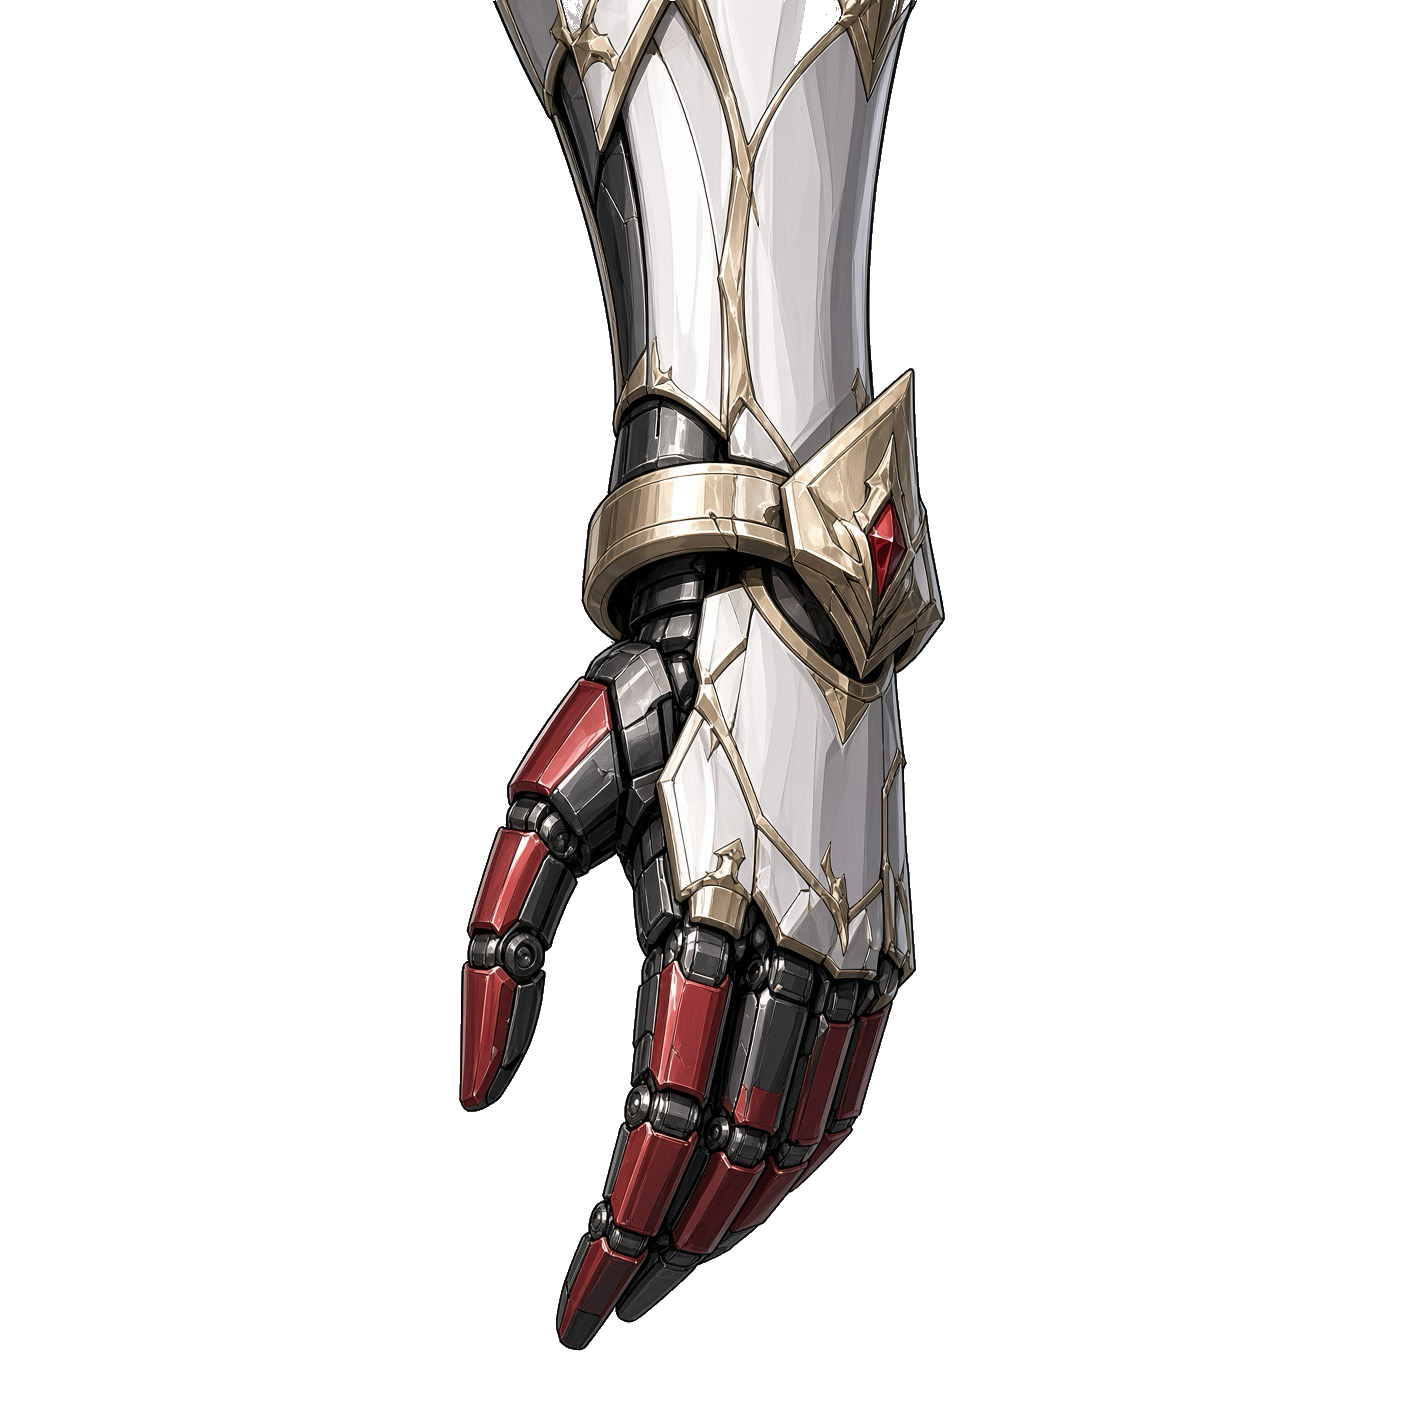
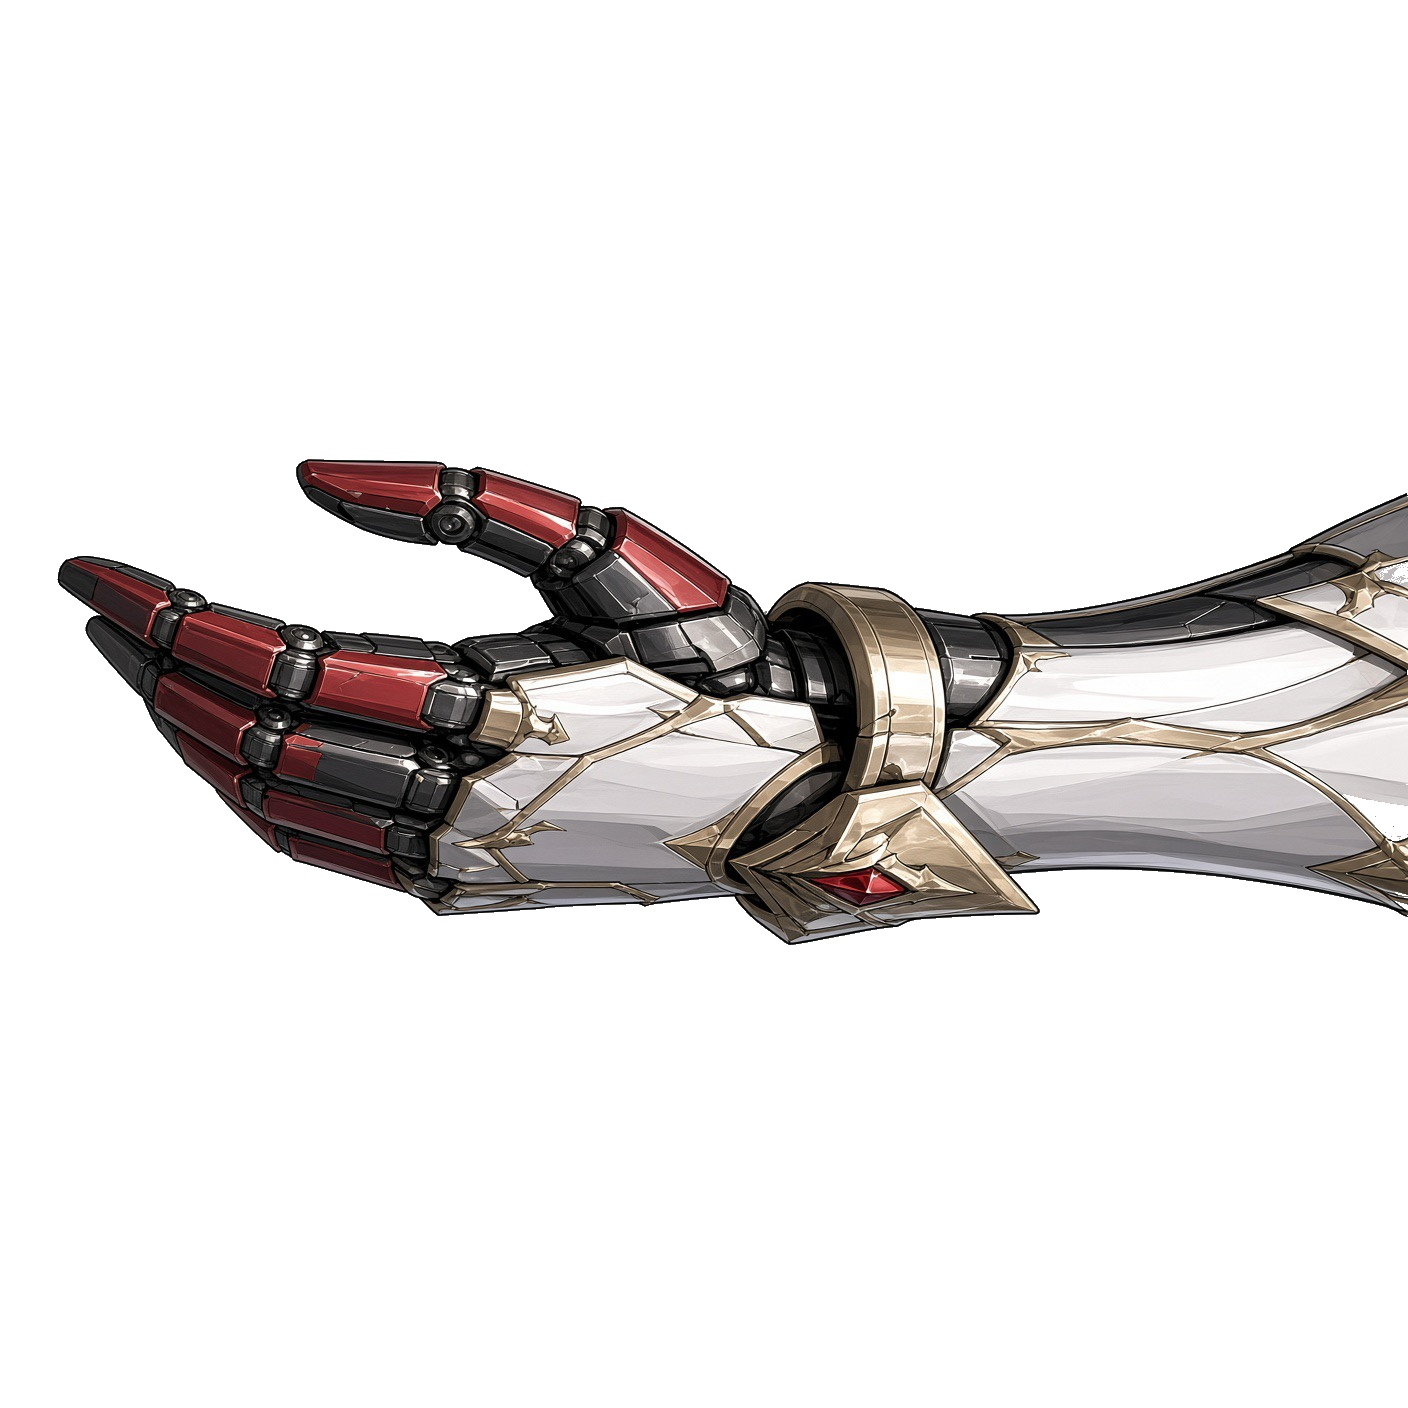
L8 polish: normal ball, no bombs, hand stump to edges, rooftop bg, debris
Restore normal ball radius on Queen boss (ignore hand brickPx). Disable
enemy bombs for queenBoss. Orient hand assets so forearm stump faces
outer edges and fingers toward the playfield; tighten side anchors.
Replace bg with rooftop sunset and plant Queen feet on groundFrac.
Add moderate falling rubble with ball bounce (L8 only). Cache-bust v=35.

diff --git a/game.js b/game.js
@@ -19,7 +19,7 @@
     { id: 5, name: 'Nivel 5', mech: 'mech-level5.png', bg: 'bg-level5.jpg', paddleScale: 0.921, groundFrac: 0.90, dodge: true, fly: true, mechScale: 0.92, irregularBricks: true, ballSpeed: 1.02 },
     { id: 6, name: 'Nivel 6', mech: 'mech-level6.png', bg: 'bg-level6.jpg', bgB: 'bg-level6b.jpg', bgC: 'bg-level6c.jpg', waves: 3, paddleScale: 0.8846, groundFrac: 0.88, dodge: true, jump: true, mechScale: 0.45, irregularBricks: true, ballSpeed: 1.0404, brickDamageMult: 1.2 },
     { id: 7, name: 'Nivel 7', mech: 'mech-level7-upper.png', mechLower: 'mech-level7-lower.png', bg: 'bg-level7.jpg', dualLayer: true, irregularBricks: true, mechScale: 1.24, paddleScale: 0.86, groundFrac: 0.88, dodge: true, ballSpeed: 1.05, brickDamageMult: 1.25 },
-    { id: 8, name: 'Nivel 8', mech: 'mech-level8-hand-l.png', queen: 'mech-level8-queen.png', handL: 'mech-level8-hand-l.png', handR: 'mech-level8-hand-r.png', bg: 'bg-level8.jpg', queenBoss: true, irregularBricks: true, mechScale: 0.58, paddleScale: 0.8428, groundFrac: 0.90, dodge: true, ballSpeed: 1.071, brickDamageMult: 1.3 },
+    { id: 8, name: 'Nivel 8', mech: 'mech-level8-hand-l.png', queen: 'mech-level8-queen.png', handL: 'mech-level8-hand-l.png', handR: 'mech-level8-hand-r.png', bg: 'bg-level8.jpg', queenBoss: true, irregularBricks: true, mechScale: 0.58, paddleScale: 0.8428, groundFrac: 0.82, dodge: true, ballSpeed: 1.071, brickDamageMult: 1.3 },
   ];
   let levelIndex = 0;
   function level() { return LEVELS[levelIndex]; }
@@ -165,6 +165,8 @@
   let l8HandSpawnAt = 0; // performance.now() when left hand spawned; right at +5s
   let l8Phase = 'idle'; // idle | intro | hands
   let l8SpawnBusy = false;
+  let l8Debris = [];
+  let l8DebrisTimer = 0;
 
   function size() {
     return {
@@ -1982,32 +1984,37 @@
     l8HandSpawnAt = 0;
     l8Phase = 'idle';
     l8SpawnBusy = false;
+    l8Debris = [];
+    l8DebrisTimer = 0.6 + Math.random() * 0.8;
   }
 
   function l8EaseInOut(u) {
     return u < 0.5 ? 2 * u * u : 1 - Math.pow(-2 * u + 2, 2) / 2;
   }
 
-  /** Queen draw transform: scale so face+chest fills viewport when cam settled. */
+  /** Queen draw transform: scale so face+chest fills viewport when cam settled.
+   *  Feet stay planted on groundY (rooftop floor) at camY=0; pan rises to face. */
   function l8QueenDrawParams() {
     const img = l8QueenImg;
     if (!img || !img.naturalWidth) return null;
     const iw = img.naturalWidth, ih = img.naturalHeight;
     // Top ~38% of body ≈ face + chest; scale that band to viewport height
     const faceFrac = 0.38;
+    const footFrac = 0.984; // opaque heel/toe near bottom of queen art
     const scale = (H / (ih * faceFrac)) * 1.08;
     const dw = iw * scale;
     const dh = ih * scale;
     const dx = (W - dw) / 2;
-    // camY 0 → feet framed; camY 1 → face+chest framed
-    const dyFeet = H - dh + H * 0.08;
-    const dyFace = -dh * 0.015;
+    const gy = groundY > 0 ? groundY : H * (level().groundFrac != null ? level().groundFrac : 0.82);
+    // camY 0 → feet on rooftop ground plane; camY 1 → face+chest framed
+    const dyFeet = gy - footFrac * dh;
+    const dyFace = -dh * 0.02;
     const dy = dyFeet + (dyFace - dyFeet) * l8CamY;
-    // slight idle parallax after intro
+    // slight idle parallax after intro (keep feet feel planted — mostly X)
     let px = 0, py = 0;
     if (!l8Intro && l8Phase === 'hands') {
       px = Math.sin(bgT * 0.35) * 4;
-      py = Math.cos(bgT * 0.28) * 3;
+      py = Math.cos(bgT * 0.28) * 1.5;
     }
     return { dx: dx + px, dy: dy + py, dw, dh };
   }
@@ -2064,20 +2071,20 @@
       const fit = Math.min(availW / imgW, availH / imgH) * mechScale;
       const ox = (W - imgW * fit) / 2;
       const unusedH = availH - imgH * fit;
-      // Hands hang from upper third
-      const oy = pad + 4 + Math.max(0, unusedH * 0.12);
+      // Horizontal hands: band sits in upper third of playfield
+      const oy = pad + 4 + Math.max(0, unusedH * 0.10);
       fillBricksFromImage(fit, ox, oy);
 
       const mechW = imgW * fitScale;
       const mechH = imgH * fitScale;
-      // Anchor: forearm/wrist near side edge — ~38% of width off-screen
+      // Anchor: forearm stump toward outer edge — ~42% of width off-screen
       if (side === 'left') {
-        structureDX = -originX - mechW * 0.38;
+        structureDX = -originX - mechW * 0.42;
       } else {
-        structureDX = (W + mechW * 0.38) - originX - mechW;
+        structureDX = (W + mechW * 0.42) - originX - mechW;
       }
       // Start slightly higher then settle
-      structureDY = -Math.min(80, mechH * 0.08);
+      structureDY = -Math.min(60, mechH * 0.06);
       structureDVX = 0;
       structureDVY = 0;
       structureAngle = 0;
@@ -2223,6 +2230,125 @@
     applyStructureOffset();
   }
 
+  function spawnL8Debris() {
+    if (!level().queenBoss || won || gameOver) return;
+    if (l8Debris.length >= 10) return;
+    const w = 10 + Math.random() * 22;
+    const h = 8 + Math.random() * 18;
+    const x = Math.random() * (W - w);
+    const gray = 70 + (Math.random() * 70) | 0;
+    const brown = (Math.random() * 35) | 0;
+    l8Debris.push({
+      x,
+      y: -h - Math.random() * 40,
+      w,
+      h,
+      vx: (Math.random() - 0.5) * 0.7,
+      vy: 0.4 + Math.random() * 0.9,
+      rot: Math.random() * Math.PI * 2,
+      vr: (Math.random() - 0.5) * 0.08,
+      r: gray,
+      g: gray - 8 + brown,
+      b: gray - 18 + (brown * 0.5) | 0,
+      alive: true,
+    });
+  }
+
+  function updateL8Debris(dt) {
+    if (!level().queenBoss) return;
+    const step = dt * 60;
+    // Moderate spawn rate — not overwhelming
+    if (!l8Intro && l8Phase === 'hands' && launched && !outro) {
+      l8DebrisTimer -= dt;
+      if (l8DebrisTimer <= 0) {
+        spawnL8Debris();
+        if (Math.random() < 0.28) spawnL8Debris();
+        l8DebrisTimer = 0.85 + Math.random() * 1.35;
+      }
+    } else if (l8Intro) {
+      // Light ambient rubble during intro
+      l8DebrisTimer -= dt;
+      if (l8DebrisTimer <= 0 && l8Debris.length < 4) {
+        spawnL8Debris();
+        l8DebrisTimer = 1.4 + Math.random() * 1.6;
+      }
+    }
+    const floor = groundY > 0 ? groundY + 8 : H + 20;
+    for (let i = l8Debris.length - 1; i >= 0; i--) {
+      const d = l8Debris[i];
+      if (!d.alive) { l8Debris.splice(i, 1); continue; }
+      d.vy += 0.085 * step; // gravity
+      d.vx *= 0.999;
+      d.x += d.vx * step;
+      d.y += d.vy * step;
+      d.rot += d.vr * step;
+      if (d.y + d.h >= floor || d.y > H + 30 || d.x + d.w < -40 || d.x > W + 40) {
+        l8Debris.splice(i, 1);
+      }
+    }
+  }
+
+  function collideBallWithL8Debris() {
+    if (!level().queenBoss || !ball || !l8Debris.length) return;
+    for (const d of l8Debris) {
+      if (!d.alive) continue;
+      if (!collideCircleAABB(ball.x, ball.y, ball.r, d)) continue;
+      const flags = bounceFlagsForHit(ball.x, ball.y, ball.r, d);
+      // Separate ball out of AABB
+      const nx = Math.max(d.x, Math.min(ball.x, d.x + d.w));
+      const ny = Math.max(d.y, Math.min(ball.y, d.y + d.h));
+      let dx = ball.x - nx, dy = ball.y - ny;
+      const dist = Math.hypot(dx, dy) || 0.001;
+      const push = ball.r - dist + 0.5;
+      if (push > 0 && dist < ball.r) {
+        ball.x += (dx / dist) * push;
+        ball.y += (dy / dist) * push;
+      } else if (flags.bounceY) {
+        if (ball.vy > 0) ball.y = d.y - ball.r - 0.5;
+        else ball.y = d.y + d.h + ball.r + 0.5;
+      } else if (flags.bounceX) {
+        if (ball.vx > 0) ball.x = d.x - ball.r - 0.5;
+        else ball.x = d.x + d.w + ball.r + 0.5;
+      }
+      if (flags.bounceX) {
+        ball.vx = -ball.vx * 0.98;
+        d.vx += (ball.vx > 0 ? 1 : -1) * 0.35;
+      }
+      if (flags.bounceY) {
+        ball.vy = -ball.vy * 0.98;
+        d.vy += ball.vy * 0.15;
+      }
+      // Keep speed floor
+      const sp = Math.hypot(ball.vx, ball.vy);
+      const minSp = Math.max(2.8, (ball.speed || 4) * 0.72);
+      if (sp < minSp && sp > 0.01) {
+        ball.vx = (ball.vx / sp) * minSp;
+        ball.vy = (ball.vy / sp) * minSp;
+      }
+      d.vr += (Math.random() - 0.5) * 0.12;
+      bumpCam(1.1);
+    }
+  }
+
+  function drawL8Debris() {
+    if (!level().queenBoss || !l8Debris.length) return;
+    for (const d of l8Debris) {
+      if (!d.alive) continue;
+      ctx.save();
+      ctx.translate(d.x + d.w / 2, d.y + d.h / 2);
+      ctx.rotate(d.rot);
+      ctx.fillStyle = `rgb(${d.r},${d.g},${d.b})`;
+      ctx.globalAlpha = 0.88;
+      ctx.fillRect(-d.w / 2, -d.h / 2, d.w, d.h);
+      // small crack highlight
+      ctx.fillStyle = `rgba(40,32,28,0.45)`;
+      ctx.fillRect(-d.w / 2, -d.h / 2, d.w * 0.35, d.h);
+      ctx.fillStyle = `rgba(160,140,120,0.25)`;
+      ctx.fillRect(d.w * 0.1, -d.h / 2, d.w * 0.25, d.h * 0.4);
+      ctx.restore();
+    }
+  }
+
   function buildLevel() {
     resizeCanvas();
     clearL6Timers();
@@ -2275,10 +2401,11 @@
 
     if (level().queenBoss) {
       // Queen is backdrop only — no bricks yet; hands spawn after intro
-      cols = 1; rows = 1; cell = 8; cellScreen = 8; brickPx = 8;
+      cols = 1; rows = 1; cell = 8; cellScreen = 8; brickPx = 5;
       originX = 0; originY = 0; fitScale = 1;
       minIy = 0; maxIy = 0;
-      groundY = H * (level().groundFrac || 0.90);
+      // Screen ground line near lower playfield; bg groundFrac aligns rooftop floor
+      groundY = H * 0.88;
       grid = new Int32Array(1); grid[0] = -1;
       brickLayer = makeBrickLayerCanvas();
       structureCount = 0;
@@ -2290,7 +2417,7 @@
       playerBomb = null;
       playerBombArmed = false;
       setBombButton(false);
-      bombTimer = 2.5;
+      bombTimer = 9999; // no enemy bombs on L8
       lives = START_LIVES;
       gameOver = false;
       won = false;
@@ -2309,6 +2436,8 @@
           a: 0.08 + Math.random() * 0.16,
         });
       }
+      l8Debris = [];
+      l8DebrisTimer = 0.8 + Math.random() * 0.7;
       launched = false;
       clearLaserCannons();
       basePaddleW = Math.min(168, W * 0.42) * (level().paddleScale || 1);
@@ -2318,7 +2447,8 @@
       paddleTrail = [];
       bigPaddleUntil = 0;
       ballAirTrail = [];
-      const diameter = Math.max(brickPx * 3.92, 12);
+      // Normal ball size (do NOT tie to hand brickPx / placeholder)
+      const diameter = Math.max(5 * 3.92, 12);
       baseBallR = diameter / 2;
       const r = baseBallR * ballRadiusMult();
       ball = {
@@ -3015,6 +3145,7 @@
 
   function spawnBomb() {
     if (gameOver || won || !launched || l6Transit || l8Intro) return;
+    if (level().queenBoss) return; // Queen / hands: no bombs
     const candidates = [];
     const gather = () => {
       for (const br of bricks) {
@@ -3860,6 +3991,7 @@
     if (level().queenBoss && (l8Intro || l8Phase === 'intro')) {
       updateBg(dt);
       updateL8Intro(dt);
+      updateL8Debris(dt);
       // paddle still tracks
       if (pointerX != null && paddle) {
         paddle.x = pointerX - paddle.w / 2;
@@ -3999,6 +4131,7 @@
     updateFalling(dt);
 
     if (!launched) {
+      if (level().queenBoss) updateL8Debris(dt);
       stickBallToPaddle();
       updateBallAirTrail(dt);
       return;
@@ -4008,15 +4141,20 @@
       return;
     }
 
-    bombTimer -= dt;
-    if (bombTimer <= 0) {
-      spawnBomb();
-      const every = (l6Phase === 'chess') ? BOMB_EVERY * 0.5 : BOMB_EVERY;
-      const jitter = (l6Phase === 'chess') ? 0.9 : 1.8;
-      bombTimer = every + Math.random() * jitter;
+    if (!level().queenBoss) {
+      bombTimer -= dt;
+      if (bombTimer <= 0) {
+        spawnBomb();
+        const every = (l6Phase === 'chess') ? BOMB_EVERY * 0.5 : BOMB_EVERY;
+        const jitter = (l6Phase === 'chess') ? 0.9 : 1.8;
+        bombTimer = every + Math.random() * jitter;
+      }
+      updateBombs(dt);
+      updatePlayerBomb(dt);
+    } else {
+      bombs = [];
+      updateL8Debris(dt);
     }
-    updateBombs(dt);
-    updatePlayerBomb(dt);
 
     const steps = 3;
     for (let s = 0; s < steps; s++) {
@@ -4047,6 +4185,7 @@
       }
 
       collideBricksWithBall();
+      if (level().queenBoss) collideBallWithL8Debris();
 
       if (ball.y - ball.r > H + 4) {
         loseLife();
@@ -4476,21 +4615,27 @@
     }
     if (level().queenBoss) {
       const iw = bgImg.naturalWidth, ih = bgImg.naturalHeight;
-      const scale = Math.max(W / iw, H / ih) * 1.05;
+      // Align cracked rooftop floor (groundFrac) with queen feet / groundY
+      const groundFrac = level().groundFrac != null ? level().groundFrac : 0.82;
+      const gy = groundY > 0 ? groundY : H * 0.88;
+      const needH = Math.max(H * 1.25, (gy + H * 0.35) / groundFrac);
+      const scale = Math.max(W / iw, needH / ih) * 1.12;
       const dw = iw * scale, dh = ih * scale;
-      const dx = -(dw - W) * 0.5;
-      const dy = -(dh - H) * 0.5 + Math.sin(bgT * 0.04) * 3;
+      const drift = Math.sin(bgT * 0.04) * Math.min(18, (dw - W) * 0.06);
+      const dx = -(dw - W) * 0.5 + drift;
+      // Keep rooftop plane under feet as camera pans (bg locked to groundY)
+      const dy = gy - groundFrac * dh;
       ctx.drawImage(bgImg, dx, dy, dw, dh);
-      const grd = ctx.createRadialGradient(W * 0.5, H * 0.28, 20, W * 0.5, H * 0.4, H * 0.75);
-      grd.addColorStop(0, 'rgba(40,10,30,0.05)');
-      grd.addColorStop(0.55, 'rgba(6,4,14,0.35)');
-      grd.addColorStop(1, 'rgba(2,1,6,0.72)');
+      const grd = ctx.createRadialGradient(W * 0.5, H * 0.22, 20, W * 0.5, H * 0.45, H * 0.8);
+      grd.addColorStop(0, 'rgba(60,25,10,0.05)');
+      grd.addColorStop(0.5, 'rgba(10,6,14,0.28)');
+      grd.addColorStop(1, 'rgba(2,1,6,0.62)');
       ctx.fillStyle = grd;
       ctx.fillRect(0, 0, W, H);
       for (const p of bgDust) {
         ctx.beginPath();
         ctx.arc(p.x, p.y, p.r, 0, Math.PI * 2);
-        ctx.fillStyle = `rgba(180, 120, 255, ${p.a * 0.7})`;
+        ctx.fillStyle = `rgba(220, 160, 90, ${p.a * 0.55})`;
         ctx.fill();
       }
       return;
@@ -4665,6 +4810,7 @@
     if (structures.length) eachStructure(() => drawLooseBricks());
     else if (!level().queenBoss) drawLooseBricks();
     drawParticles();
+    if (level().queenBoss) drawL8Debris();
     drawBombs();
     drawLaserBeams();
     drawPaddle();

diff --git a/index.html b/index.html
@@ -310,6 +310,6 @@
       </div>
     </div>
   </div>
-  <script src="game.js?v=34"></script>
+  <script src="game.js?v=35"></script>
 </body>
 </html>
